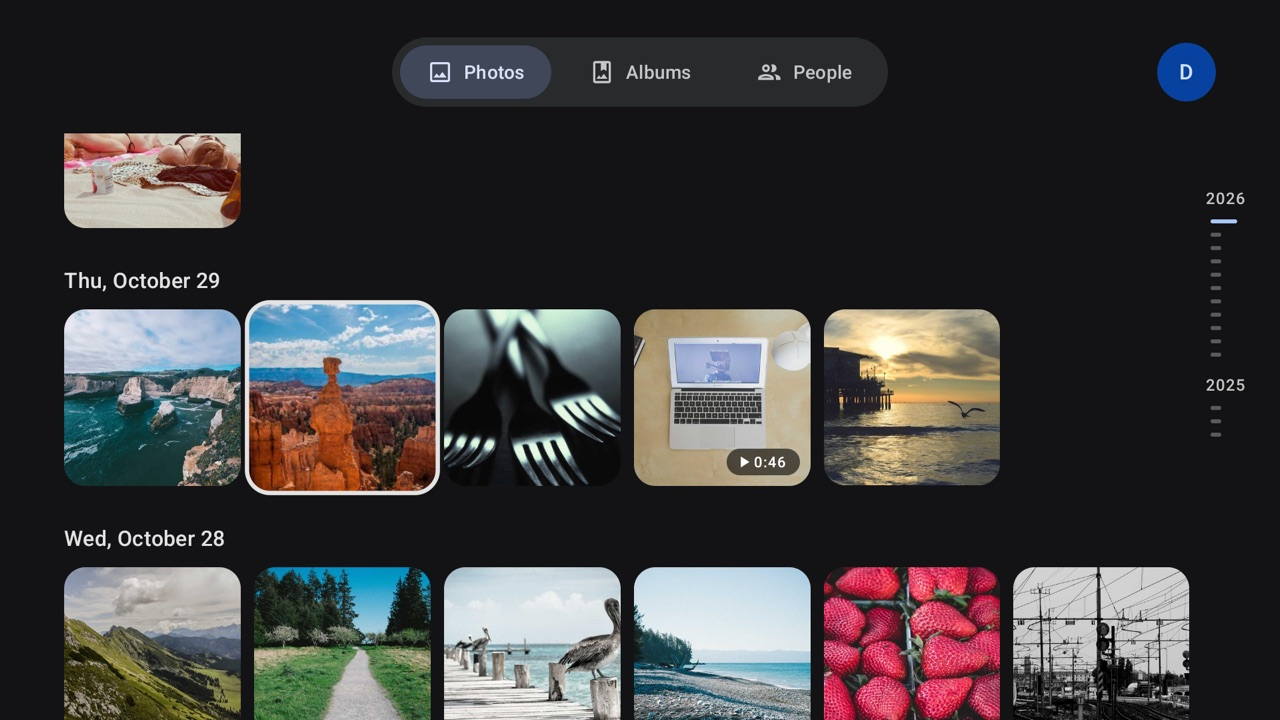
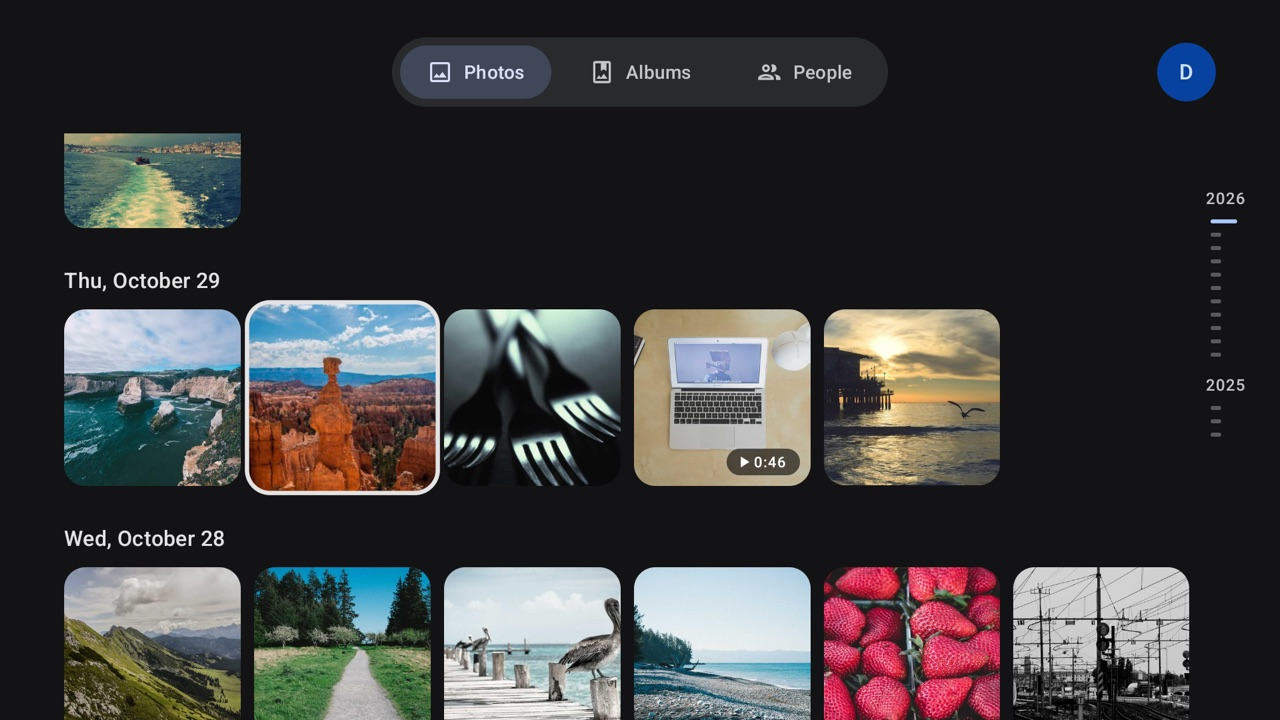
Remove the cookies.txt sign-in; new demo data and screenshots
The phone app is now the only way to sign in. The demo library gets
English names for everyone in People, renamed albums and a different
first photo, and the README screenshots are retaken from it.

Changed region(s): [[0.0312, 0.1833, 0.1875, 0.3361]]

diff --git a/app/src/main/java/com/jjmluz/photostv/ui/SignInScreen.kt b/app/src/main/java/com/jjmluz/photostv/ui/SignInScreen.kt
@@ -1,7 +1,6 @@
 package com.jjmluz.photostv.ui
 
 import android.graphics.Bitmap
-import android.util.Log
 import androidx.compose.foundation.Image
 import androidx.compose.foundation.background
 import androidx.compose.foundation.layout.Arrangement
@@ -13,11 +12,7 @@ import androidx.compose.foundation.layout.size
 import androidx.compose.foundation.layout.Box
 import androidx.compose.foundation.shape.CircleShape
 import androidx.compose.runtime.Composable
-import androidx.compose.runtime.LaunchedEffect
-import androidx.compose.runtime.getValue
-import androidx.compose.runtime.mutableStateOf
 import androidx.compose.runtime.remember
-import androidx.compose.runtime.setValue
 import androidx.compose.ui.Alignment
 import androidx.compose.ui.Modifier
 import androidx.compose.ui.graphics.Color
@@ -25,7 +20,6 @@ import androidx.compose.ui.graphics.FilterQuality
 import androidx.compose.ui.graphics.ImageBitmap
 import androidx.compose.ui.graphics.asImageBitmap
 import androidx.compose.ui.platform.LocalContext
-import androidx.compose.ui.platform.LocalResources
 import androidx.compose.ui.res.painterResource
 import androidx.compose.ui.res.stringResource
 import androidx.compose.ui.unit.dp
@@ -33,54 +27,21 @@ import androidx.tv.material3.MaterialTheme
 import androidx.tv.material3.Text
 import com.jjmluz.photostv.R
 import com.jjmluz.photostv.app
-import com.jjmluz.photostv.data.CookieImport
 import com.google.zxing.BarcodeFormat
 import com.google.zxing.EncodeHintType
 import com.google.zxing.qrcode.QRCodeWriter
-import kotlinx.coroutines.Dispatchers
-import kotlinx.coroutines.delay
-import kotlinx.coroutines.withContext
-
-private const val TAG = "PhotosTV"
-private const val FILE_NAME = "cookies.txt"
 
 /**
  * Sign-in from the phone. Google blocks every way for a third-party TV app to sign in to Photos on
- * the TV itself, so the account comes from the Fotos TV phone app, which pairs by scanning the QR
+ * the TV itself, so the account comes from the Photos TV phone app, which pairs by scanning the QR
  * code (see [com.jjmluz.photostv.data.PairingServer] and [com.jjmluz.photostv.data.GoogleAccount]).
- * A cookies.txt pushed with adb also works, as a one-off session.
  *
  * When [adding], an account is already signed in and this adds another; Back returns to it.
  */
 @Composable
-fun SignInScreen(onImported: () -> Unit, adding: Boolean = false) {
+fun SignInScreen(adding: Boolean = false) {
     val context = LocalContext.current
-    val res = LocalResources.current
-    val dir = remember { context.getExternalFilesDir(null)!! }
-    var error by remember { mutableStateOf<String?>(null) }
     val pairing = context.app.pairing
-
-    LaunchedEffect(Unit) {
-        val file = dir.resolve(FILE_NAME)
-        while (true) {
-            if (file.exists()) {
-                val text = withContext(Dispatchers.IO) { file.readText().also { file.delete() } }
-                Log.i(TAG, "Sign-in: found $FILE_NAME (${text.length} chars)")
-                context.app.clearWebSession()
-                val result = runCatching { CookieImport.apply(text) }
-                result.onSuccess {
-                    Log.i(TAG, "Sign-in: imported $it cookies")
-                    onImported()
-                    return@LaunchedEffect
-                }
-                error = when (val e = result.exceptionOrNull()) {
-                    is CookieImport.NoSessionCookies -> res.getString(R.string.cookies_no_session)
-                    else -> e?.message ?: res.getString(R.string.cookies_unreadable)
-                }
-            }
-            delay(1_000)
-        }
-    }
 
     Row(
         Modifier.fillMaxSize().padding(horizontal = 64.dp),
@@ -104,19 +65,13 @@ fun SignInScreen(onImported: () -> Unit, adding: Boolean = false) {
             Step(1, stringResource(R.string.sign_in_step_phone))
             Step(2, stringResource(R.string.sign_in_step_account))
             Text(
-                stringResource(R.string.sign_in_cookies, FILE_NAME, "${dir.absolutePath.replace("/storage/emulated/0", "/sdcard")}/$FILE_NAME"),
-                style = MaterialTheme.typography.bodySmall,
-                color = MaterialTheme.colorScheme.onSurfaceVariant,
-                modifier = Modifier.padding(top = 12.dp),
-            )
-            Text(
-                error ?: when {
+                when {
                     qr == null -> stringResource(R.string.sign_in_no_network)
                     adding -> stringResource(R.string.sign_in_waiting_cancel)
                     else -> stringResource(R.string.sign_in_waiting)
                 },
                 style = MaterialTheme.typography.bodyMedium,
-                color = if (error != null) MaterialTheme.colorScheme.error else MaterialTheme.colorScheme.primary,
+                color = MaterialTheme.colorScheme.primary,
                 modifier = Modifier.padding(top = 4.dp),
             )
         }

diff --git a/app/src/debug/java/com/jjmluz/photostv/Demo.kt b/app/src/debug/java/com/jjmluz/photostv/Demo.kt
@@ -74,7 +74,8 @@ private class DemoPhotosApi : PhotosApi(OkHttpClient()) {
             time -= random.nextLong(10, 180) * 60 * 1000L + if (random.nextInt(10) == 0) random.nextLong(1, 15) * day else 0
             MediaItem(
                 key = "demo$i",
-                baseUrl = "https://$DEMO_HOST/photo$i",
+                // The newest photo is the first one on screen; this seed picks a pleasant one.
+                baseUrl = "https://$DEMO_HOST/" + if (i == 0) "lake" else "photo$i",
                 width = 3000,
                 height = 2000,
                 timestamp = time,
@@ -85,13 +86,13 @@ private class DemoPhotosApi : PhotosApi(OkHttpClient()) {
     }
 
     private val albumList = listOf(
-        "Algarve holiday", "Christmas 2025", "Wedding", "Weekend in Porto", "Birthday",
+        "Thailand holiday", "Christmas 2025", "Wedding", "Weekend in Paris", "Birthday",
         "Hikes", "Beach", "Garden", "Trip to London", "Family",
     ).mapIndexed { i, title ->
         Album("album$i", title, "https://$DEMO_HOST/album$i", 20 + i * 13, authKey = null)
     }
 
-    private val peopleList = listOf("Sara", "Miguel", "Lili", "João", null, "Grandma", null, "Rita", "Tomás", null)
+    private val peopleList = listOf("Sarah", "Michael", "Lily", "John", "Emma", "Grandma", "Oliver", "Rachel", "Thomas", "Max")
         .mapIndexed { i, name -> Person("person$i", name, "https://$DEMO_HOST/face$i", 300 - i * 25) }
 
     private val places = listOf("Home, Salreu", "Lisboa", "Porto, Ribeira", null, "Praia da Rocha, Portimão", null)

diff --git a/app/src/main/java/com/jjmluz/photostv/MainActivity.kt b/app/src/main/java/com/jjmluz/photostv/MainActivity.kt
@@ -41,7 +41,7 @@ class MainActivity : ComponentActivity() {
                 ) {
                     when (val auth = vm.auth) {
                         AuthState.Checking -> LoadingScreen()
-                        AuthState.SignedOut -> SignInScreen(onImported = vm::signedInWithCookies)
+                        AuthState.SignedOut -> SignInScreen()
                         is AuthState.Failed -> {
                             MessageScreen(
                                 title = stringResource(R.string.auth_failed),
@@ -55,7 +55,7 @@ class MainActivity : ComponentActivity() {
                         is AuthState.SignedIn -> {
                             val viewer = vm.viewer
                             if (vm.addingAccount) {
-                                SignInScreen(onImported = vm::signedInWithCookies, adding = true)
+                                SignInScreen(adding = true)
                                 BackHandler(onBack = vm::cancelAddAccount)
                             } else if (viewer != null) {
                                 ViewerScreen(viewer, locationOf = vm::locationOf, onClose = vm::closeViewer)

diff --git a/app/src/main/java/com/jjmluz/photostv/MainViewModel.kt b/app/src/main/java/com/jjmluz/photostv/MainViewModel.kt
@@ -139,7 +139,7 @@ class MainViewModel(application: Application) : AndroidViewModel(application) {
                 }
             } catch (e: NotSignedInException) {
                 Log.i(TAG, "connect: not signed in")
-                // A cookies.txt session ended, but accounts signed in from the phone are still here.
+                // No account is current, but accounts signed in from the phone are still here.
                 val saved = app.account.emails.firstOrNull()
                 if (app.account.email == null && saved != null) {
                     switchAccount(saved)
@@ -205,15 +205,6 @@ class MainViewModel(application: Application) : AndroidViewModel(application) {
     fun cancelAddAccount() {
         refocusAccount = true
         addingAccount = false
-    }
-
-    /** A cookies.txt was imported: its session belongs to none of the saved accounts. */
-    fun signedInWithCookies() {
-        app.account.useCookieSession()
-        addingAccount = false
-        resetLibrary()
-        api.reset()
-        connect()
     }
 
     /** Forgets what was on screen for the previous account. */

diff --git a/app/src/main/java/com/jjmluz/photostv/data/GoogleAccount.kt b/app/src/main/java/com/jjmluz/photostv/data/GoogleAccount.kt
@@ -83,7 +83,7 @@ class GoogleAccount(context: Context, private val web: OkHttpClient) {
         }
     }
 
-    /** The account the web session belongs to; null for none, or a session from cookies.txt. */
+    /** The account the web session belongs to; null for none. */
     val email: String? get() = prefs.getString("current", null)
 
     /** Every account signed in on this TV, in the order they were added. */
@@ -132,11 +132,6 @@ class GoogleAccount(context: Context, private val web: OkHttpClient) {
         prefs.edit().putString("current", account).apply()
         Log.i(TAG, "Account: switching to $account")
         makeWebSession()
-    }
-
-    /** The web session now comes from cookies.txt, so it belongs to none of the saved accounts. */
-    fun useCookieSession() {
-        prefs.edit().remove("current").apply()
     }
 
     /** [account]'s name and picture as last fetched, so its avatar shows before [profile] answers. */

diff --git a/README.md b/README.md
@@ -190,19 +190,6 @@ The token travels encrypted (AES-GCM, with a key derived from the pairing code i
 the TV refuses anything that doesn't decrypt with its code, is older than 10 minutes, or repeats an
 earlier request.
 
-### With a cookies.txt
-
-Export the cookies of photos.google.com in `cookies.txt` format (for example with *Get cookies.txt
-LOCALLY*) and, with the app on its sign-in screen, push the file:
-
-```bash
-adb push ~/Downloads/cookies.txt /sdcard/Android/data/com.jjmluz.photostv/files/cookies.txt
-```
-
-The app imports it and deletes it. Delete your local copy too: it holds a live Google session. A
-one-off export stops working when Google rotates the session, so the app eventually returns to the
-sign-in screen.
-
 ## Project layout
 
 ```
@@ -215,7 +202,6 @@ app/src/main/java/com/jjmluz/photostv/
     Feed.kt             incremental page loading, date jumps, loading newer items
     MonthIndex.kt       months that have photos, for the timeline panel
     WebViewCookieJar.kt shares WebView cookies with OkHttp
-    CookieImport.kt     parses cookies.txt into the cookie store
     GoogleAccount.kt    master token from the phone's sign-in, and web sessions made from it
     PairingServer.kt    receives the encrypted sign-in token from the phone app
     SlideshowSettings.kt slideshow duration, mode and music, kept between launches
